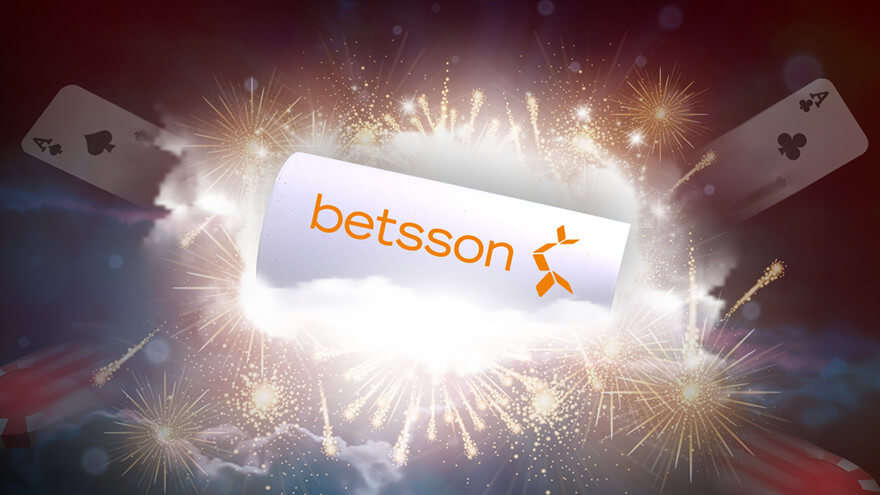
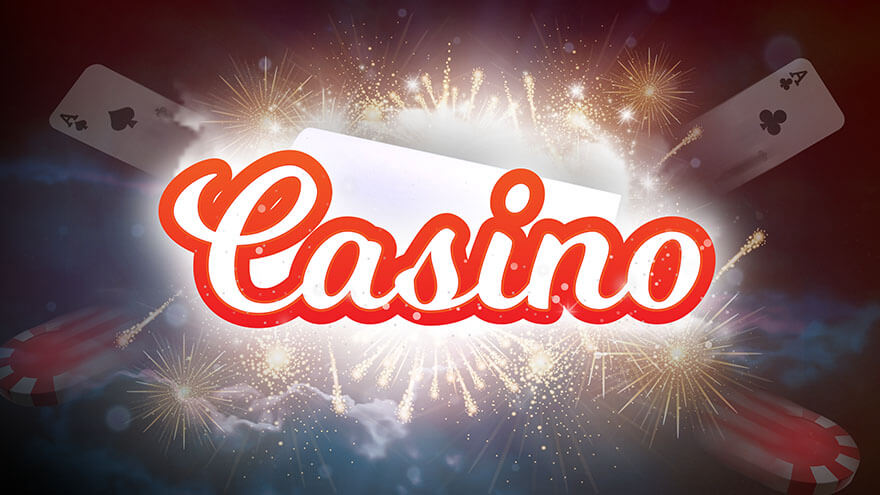
Remove branding from scratch cards

diff --git a/games.js b/games.js
@@ -185,7 +185,7 @@ var GAMES = [
     {
         "path": "casino-scratch",
         "url": "https://games.gamevy.com/prod/scratch",
-        "variation": "&gameId=BETSSON_CARDS&brand=betsson",
+        "variation": "&gameId=BETSSON_CARDS",
         "version": 1,
         "ratio": 9/16,
         "languages": {
@@ -200,7 +200,7 @@ var GAMES = [
     {
         "path": "magic-scratch",
         "url": "https://games.gamevy.com/prod/scratch",
-        "variation": "&gameId=BETSSON_MAGIC&brand=betsson",
+        "variation": "&gameId=BETSSON_MAGIC",
         "version": 1,
         "ratio": 9/16,
         "languages": {
@@ -215,7 +215,7 @@ var GAMES = [
     {
         "path": "treasure-scratch",
         "url": "https://games.gamevy.com/prod/scratch",
-        "variation": "&gameId=BETSSON_TREASURE&brand=betsson",
+        "variation": "&gameId=BETSSON_TREASURE",
         "version": 1,
         "ratio": 9/16,
         "languages": {
@@ -230,7 +230,7 @@ var GAMES = [
     {
         "path": "diamond-scratch",
         "url": "https://games.gamevy.com/prod/scratch",
-        "variation": "&gameId=BETSSON_DIAMOND&brand=betsson",
+        "variation": "&gameId=BETSSON_DIAMOND",
         "version": 1,
         "ratio": 9/16,
         "languages": {
